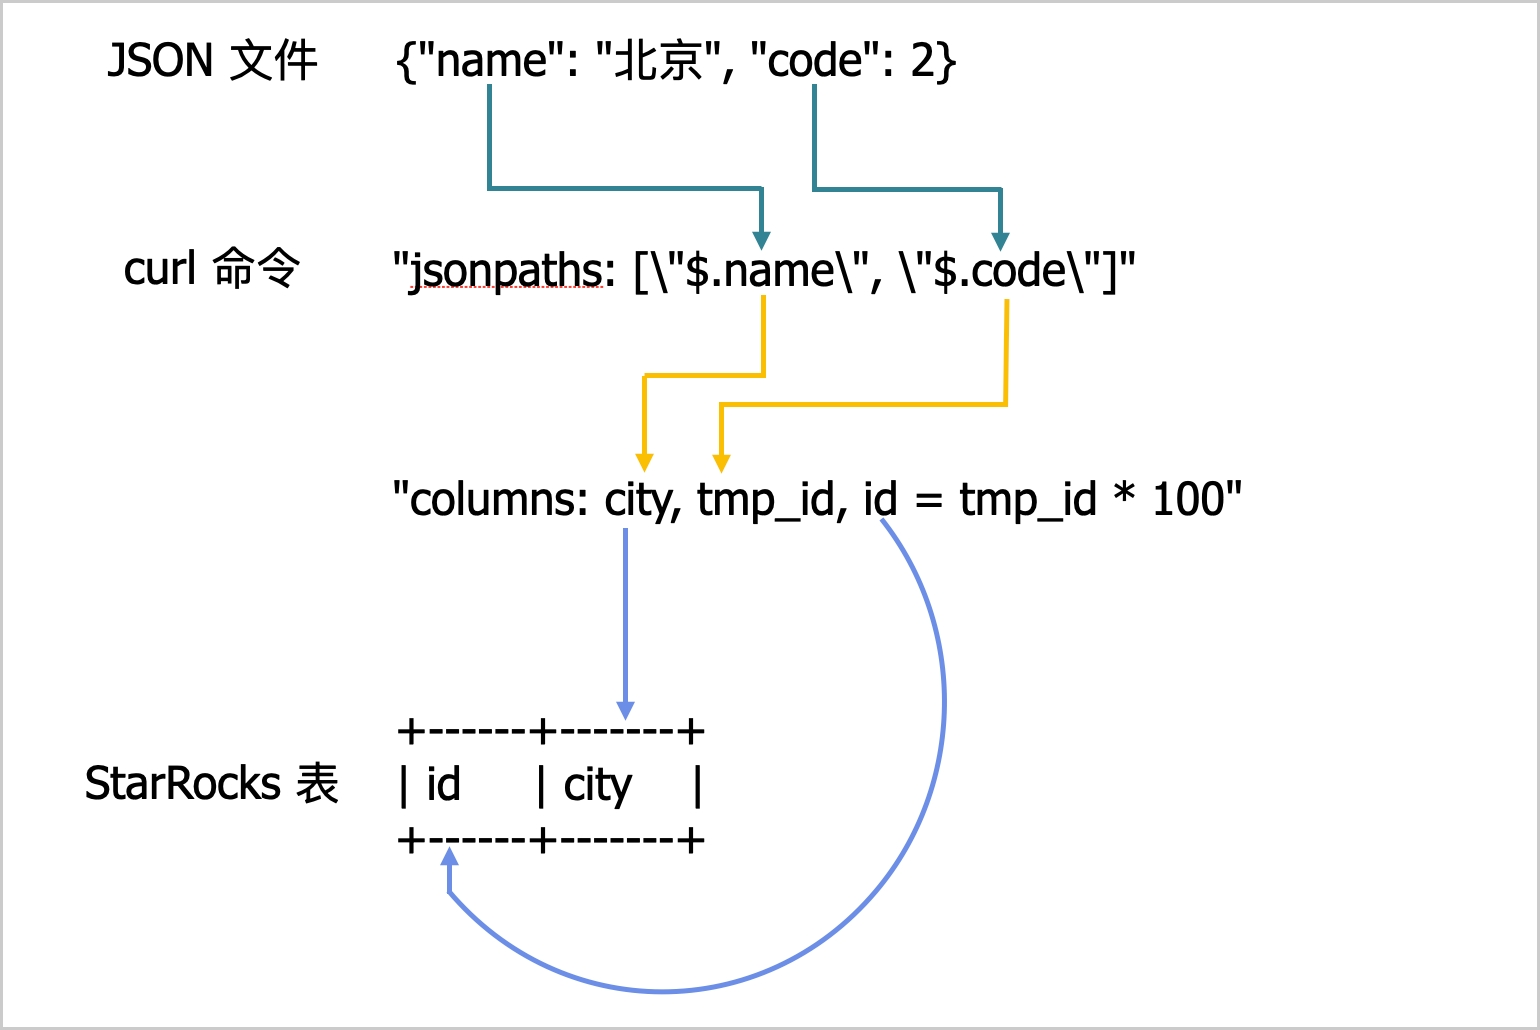
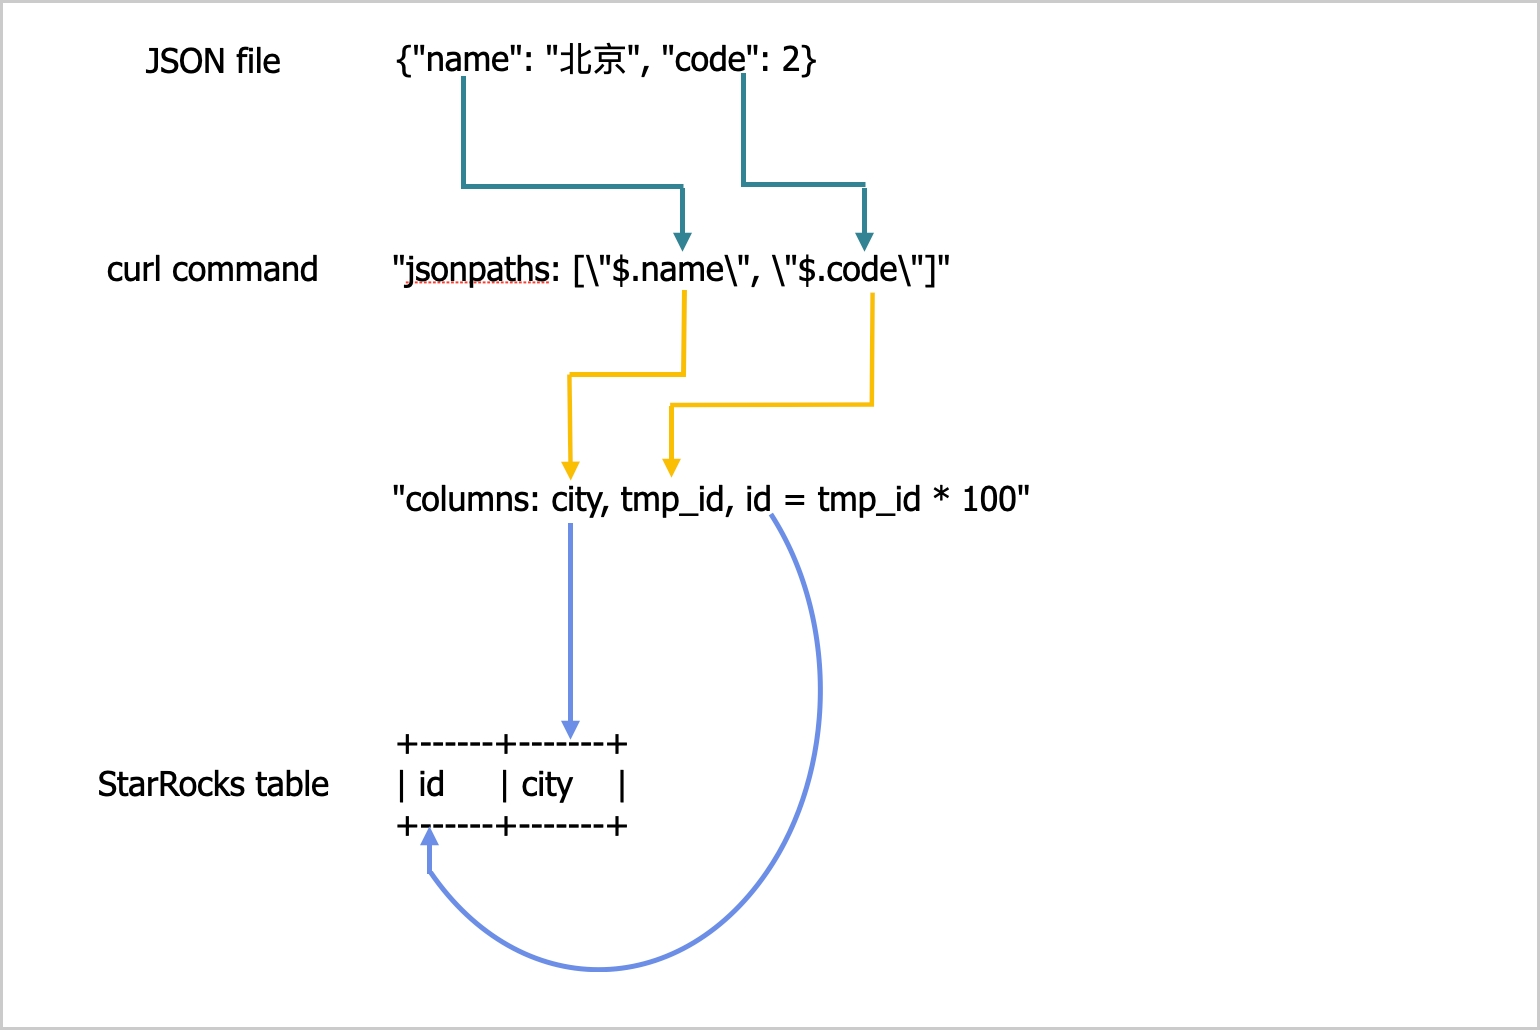
update figures in loading docs (#1749)

diff --git a/loading/Loading_intro.md b/loading/Loading_intro.md
@@ -54,7 +54,7 @@ StarRocks 支持两种导入模式：同步导入和异步导入。
 
 在异步的导入方式 Broker Load、Routine Load 和 Spark Load 中，一个导入作业的执行流程主要分为 5 个阶段，如下图所示。
 
-![异步导入流程图](/assets/4.1.1.png)
+![异步导入流程图](/assets/4.1-1.png)
 
 每个阶段的描述如下：
 
